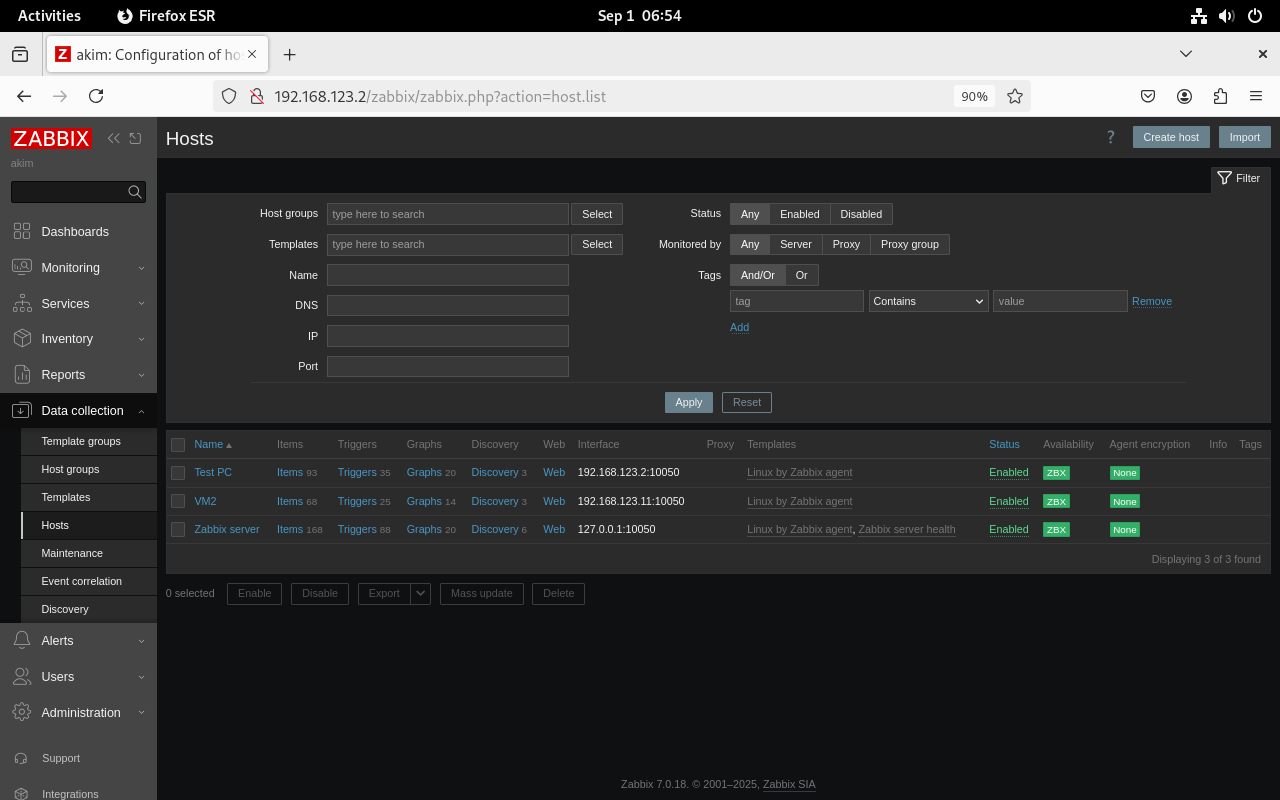
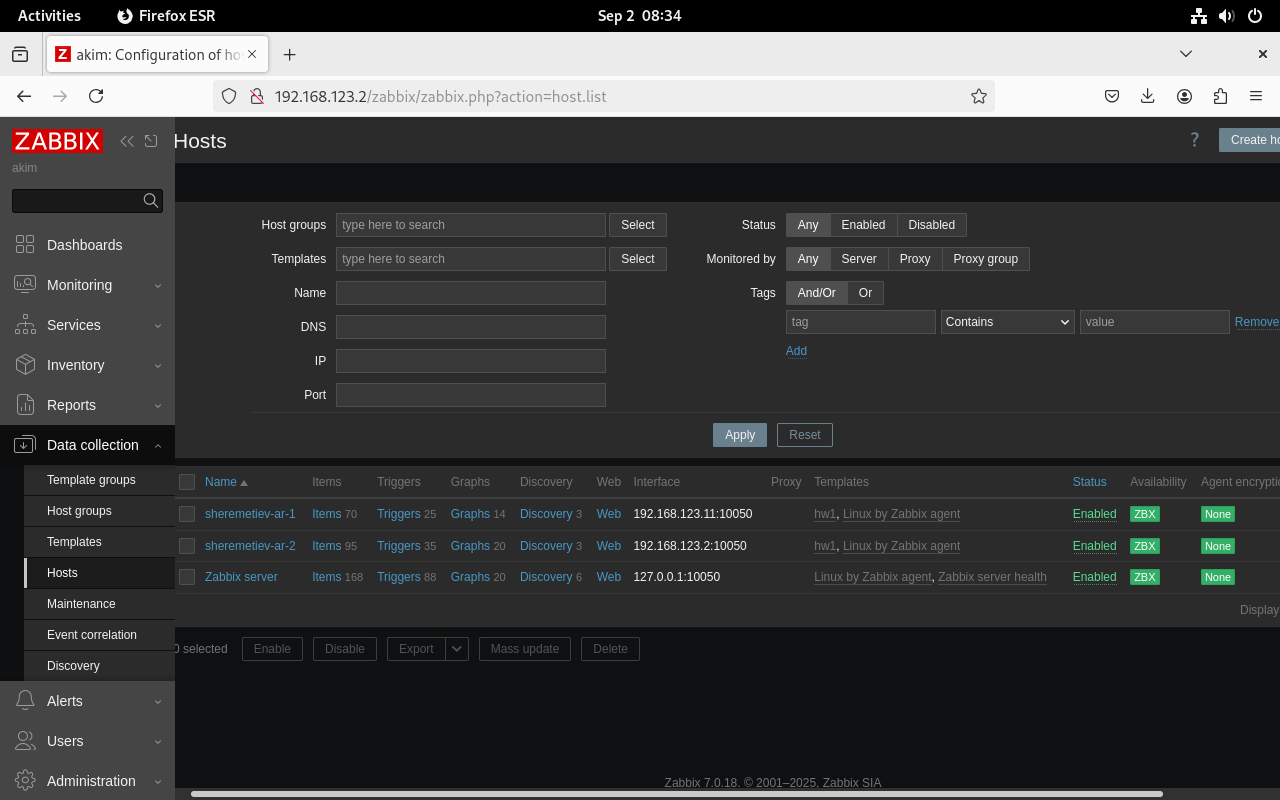
new homework

diff --git a/README.md b/README.md
@@ -1,45 +1,23 @@
-# Домашнее задание к занятию "`Система мониторинга Zabbix`" - `Шереметьев Аким Русланович`
-
-
+# Домашнее задание к занятию "`Система мониторинга Zabbix. Часть 2`" - `Шереметьев Аким Русланович`
 
 ### Задание 1
 
-Скриншот авторизации:
+Template с новыми Item:
 
-![Screen1](/img/admin.png)
+![Screen1](/img/hw1.png)
 
-Скриншот рабочей области Zabbix:
+Скриншот работы нового шаблона:
 
-![Screen2](/img/screen.png)
+![Screen2](/img/hw2.png)
 
-Перечень используемых команд:
+### Задание 1 и Задание 2
 
-```
-
-wget https://repo.zabbix.com/zabbix/7.0/debian/pool/main/z/zabbix-release/zabbix-release_latest_7.0+debian12_all.deb
-dpkg -i zabbix-release_latest_7.0+debian12_all.deb
-apt update
-
-apt install zabbix-server-pgsql zabbix-frontend-php php8.2-pgsql zabbix-apache-conf zabbix-sql-scripts zabbix-agent
-
-sudo -u postgres createuser --pwprompt zabbix
-sudo -u postgres createdb -O zabbix zabbix
-
-zcat /usr/share/zabbix-sql-scripts/postgresql/server.sql.gz | sudo -u zabbix psql zabbix
-
-```
-
-### Задание 2
-
-Агенты, подключенные к серверу:
+Скриншот страницы хостов с шаблонами:
 
 ![Screen3](/img/hosts.png)
 
-Скриншот лога zabbix-agent:
+### Задание 4
 
-![Screen4](/img/logs.png)
+Скриншот кастомного дашборда:
 
-Поступающие от агентов данные:
-
-![Screen5](/img/mon.png)
-
+![Screen4](/img/dash.png)
